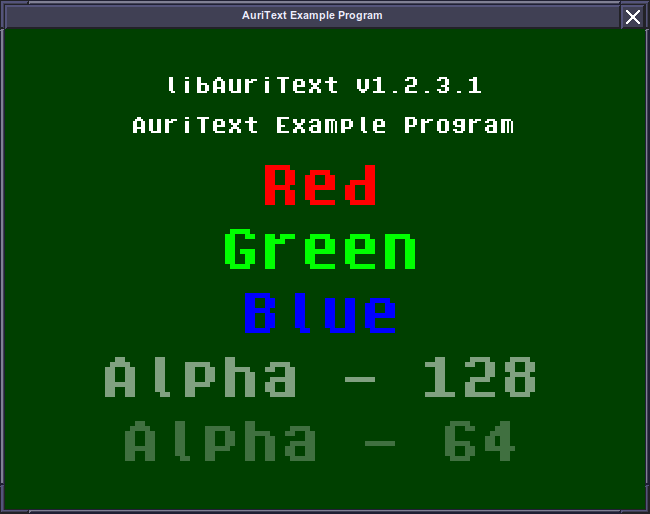
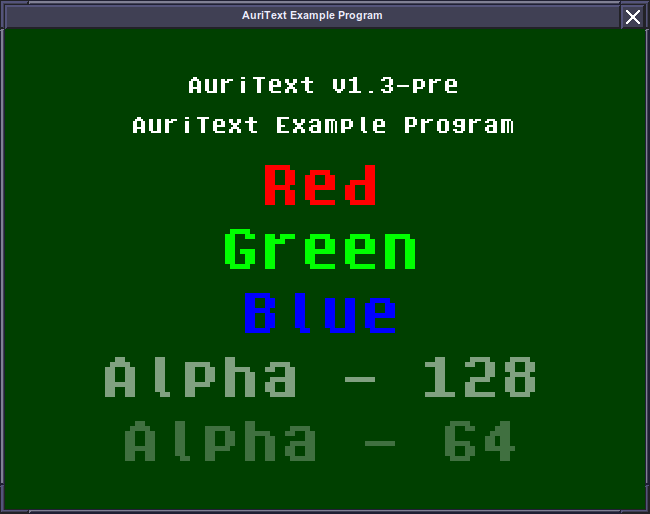
Updated the example program screenshot and changed a thing I missed

Changed region(s): [[0.2462, 0.1245, 0.7385, 0.1868]]

diff --git a/auriText.c b/auriText.c
@@ -51,7 +51,7 @@ enum auriText_errors auriText_loadFont(
 		fprintf(stderr, "ERROR: %s\n", errorMessage);
 		#endif
 		#ifdef ERROR_MESSAGES_SDL
-		SDL_ShowSimpleMessageBox(SDL_MESSAGEBOX_ERROR, "ERROR: libAuriText - Invalid Font Sheet Texture", errorMessage, NULL);
+		SDL_ShowSimpleMessageBox(SDL_MESSAGEBOX_ERROR, "ERROR: AuriText - Invalid Font Sheet Texture", errorMessage, NULL);
 		#endif
 		#endif
 		return AURITEXT_FONT_INVALID;
